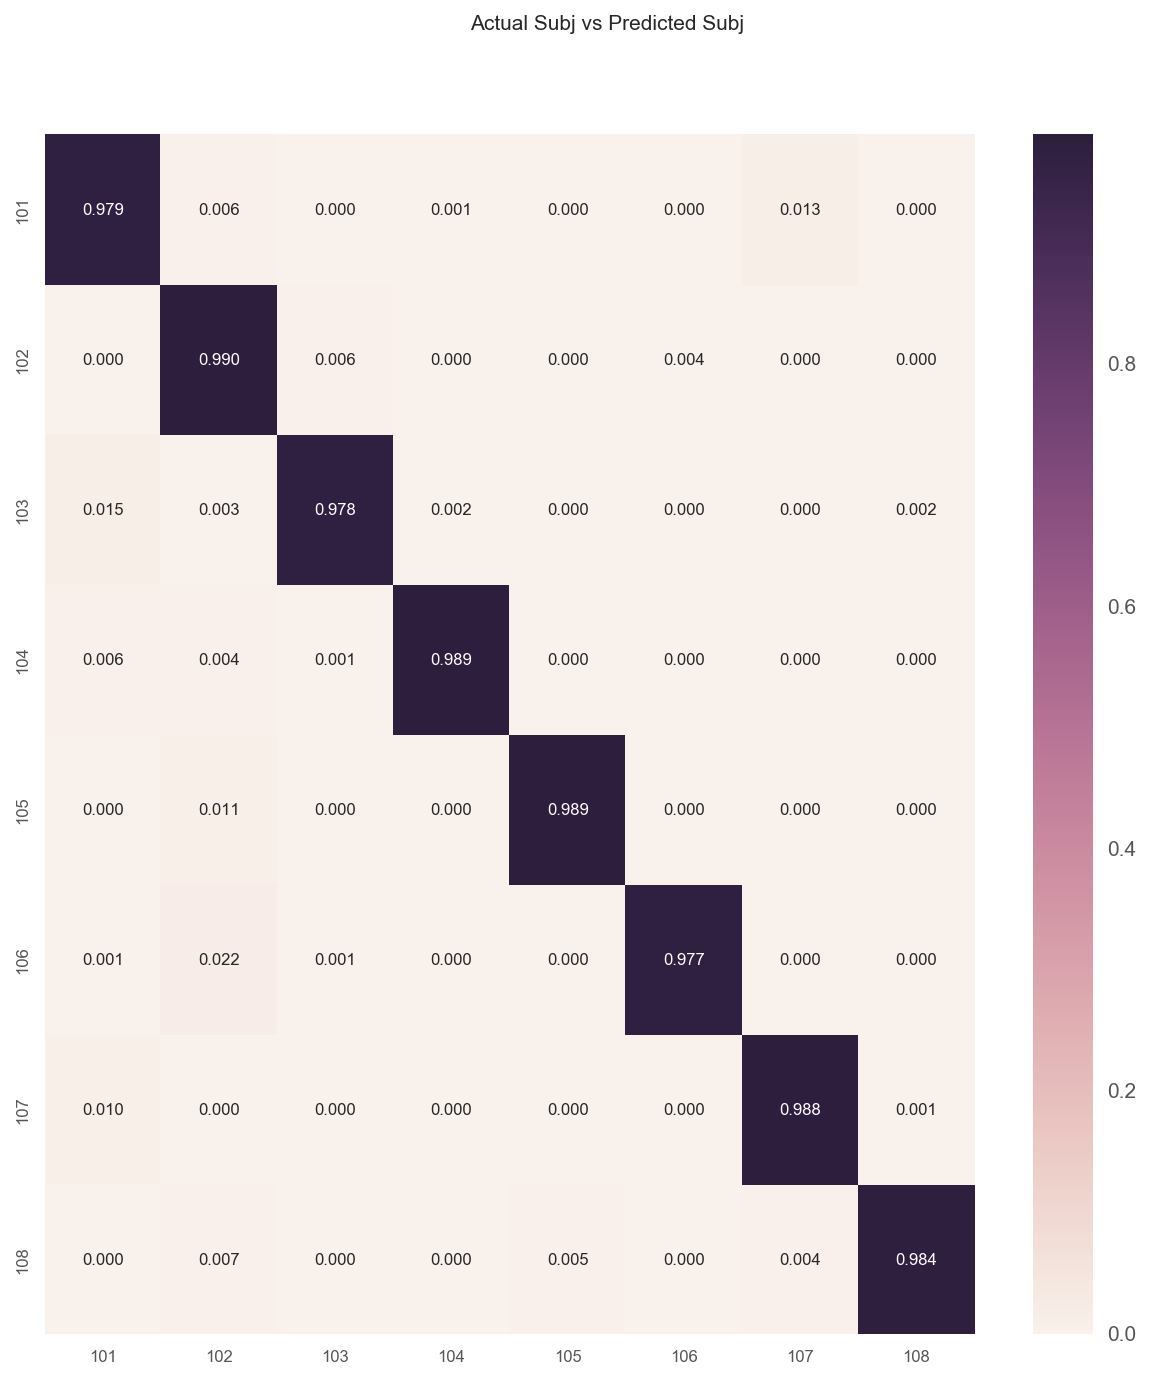
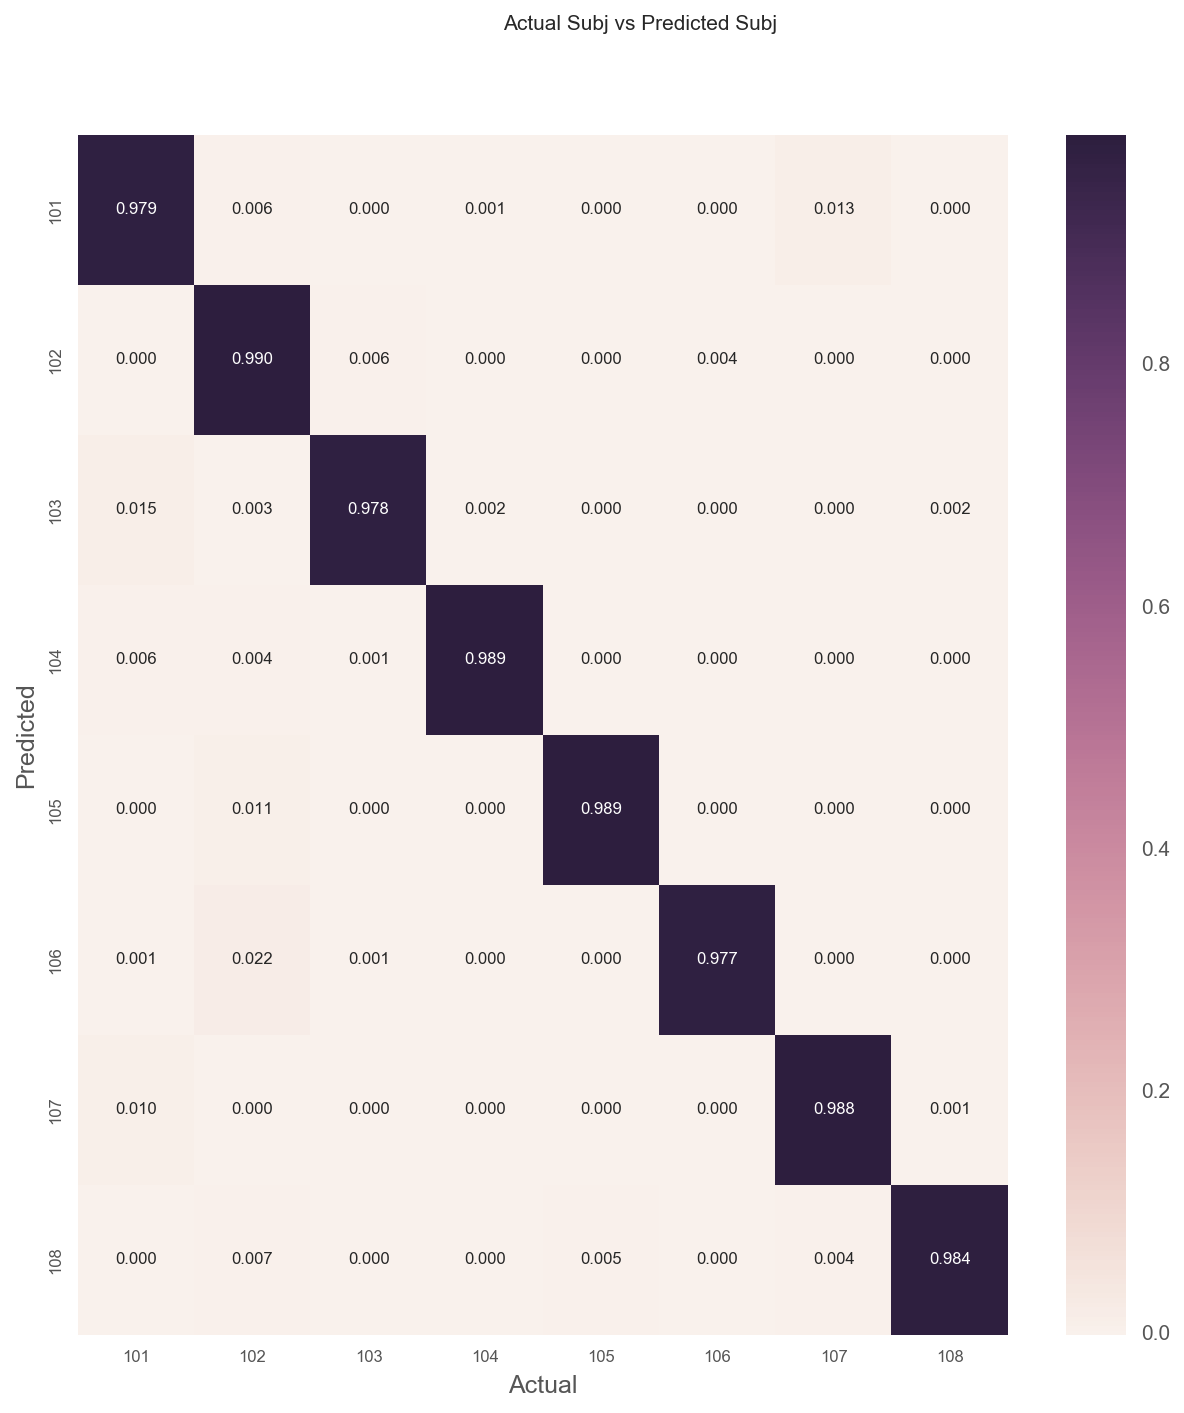
report final

diff --git a/code/08_final_classif_plots_seaborn.py b/code/08_final_classif_plots_seaborn.py
@@ -60,6 +60,7 @@ ax = sns.heatmap(ct_data, annot=True,
                  fmt='.3f', annot_kws={"size": 8})
 
 ax.tick_params(axis='both', which='major', labelsize=8)
+ax.set(xlabel='Actual', ylabel='Predicted')
 
 plt.savefig('../plots/class_act_vs_pred_subj_seaborn.png', format='png', bbox_inches='tight', pad_inches=0.1,dpi=150)
 
@@ -81,7 +82,7 @@ ax = sns.heatmap(ct_data, annot=True,
                  fmt='.3f', annot_kws={"size": 8})
 
 ax.tick_params(axis='both', which='major', labelsize=8)
-
+ax.set(xlabel='Actual', ylabel='Predicted')
 plt.savefig('../plots/class_act_vs_pred_acti_seaborn.png', format='png', bbox_inches='tight', pad_inches=0.1,dpi=150)
 
 # --------------------------------------------------------
@@ -102,6 +103,7 @@ ax = sns.heatmap(ct_data, annot=False, linewidth=1,
                  fmt='.3f', annot_kws={"size": 8})
 
 ax.tick_params(axis='both', which='major', labelsize=8)
+ax.set(xlabel='Actual', ylabel='Predicted')
 plt.xticks(rotation=90)
 plt.yticks(rotation=0)
 
